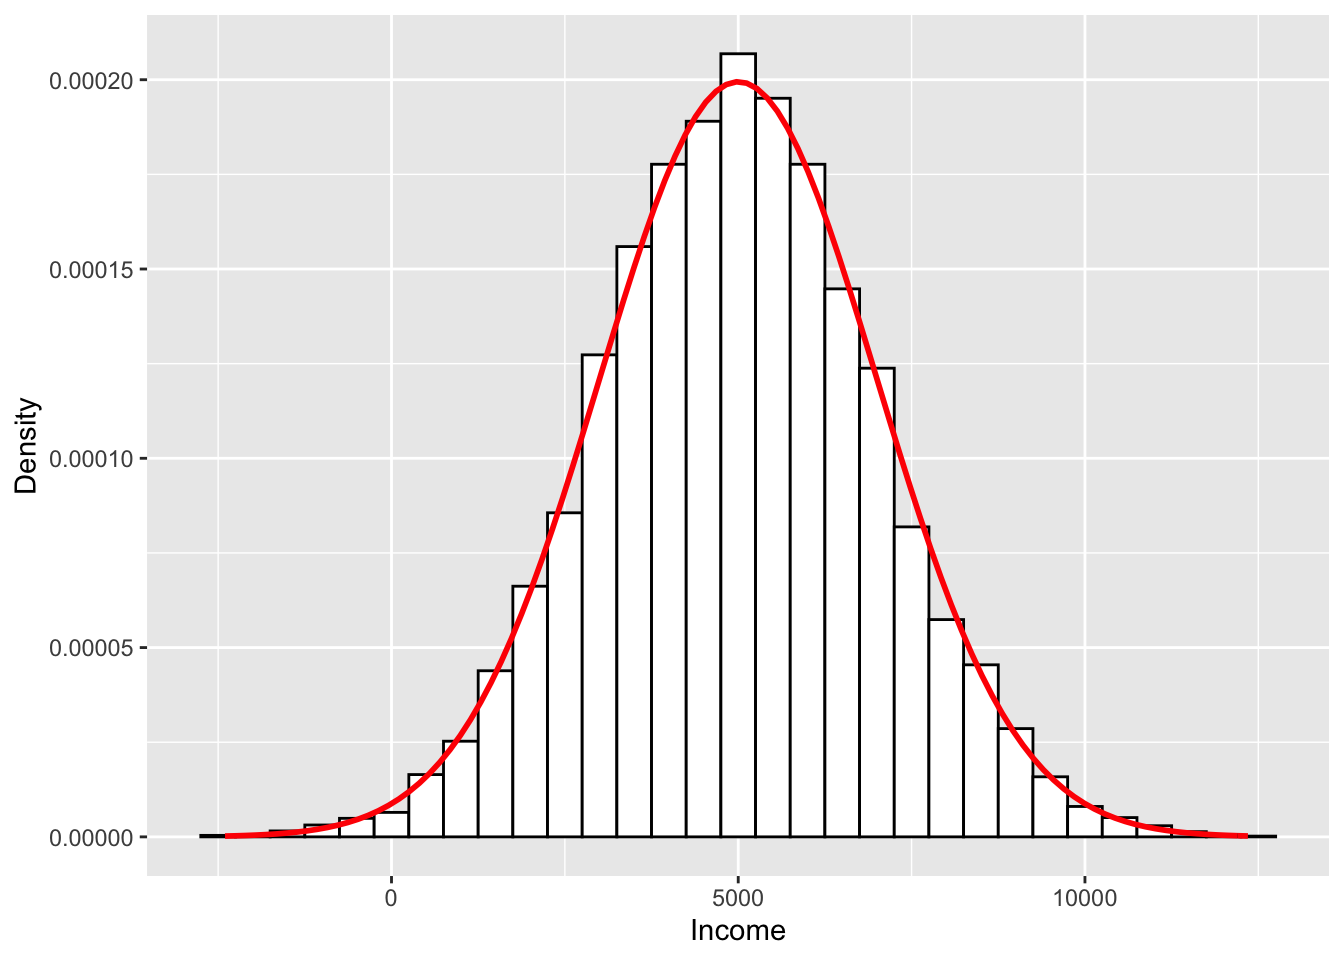
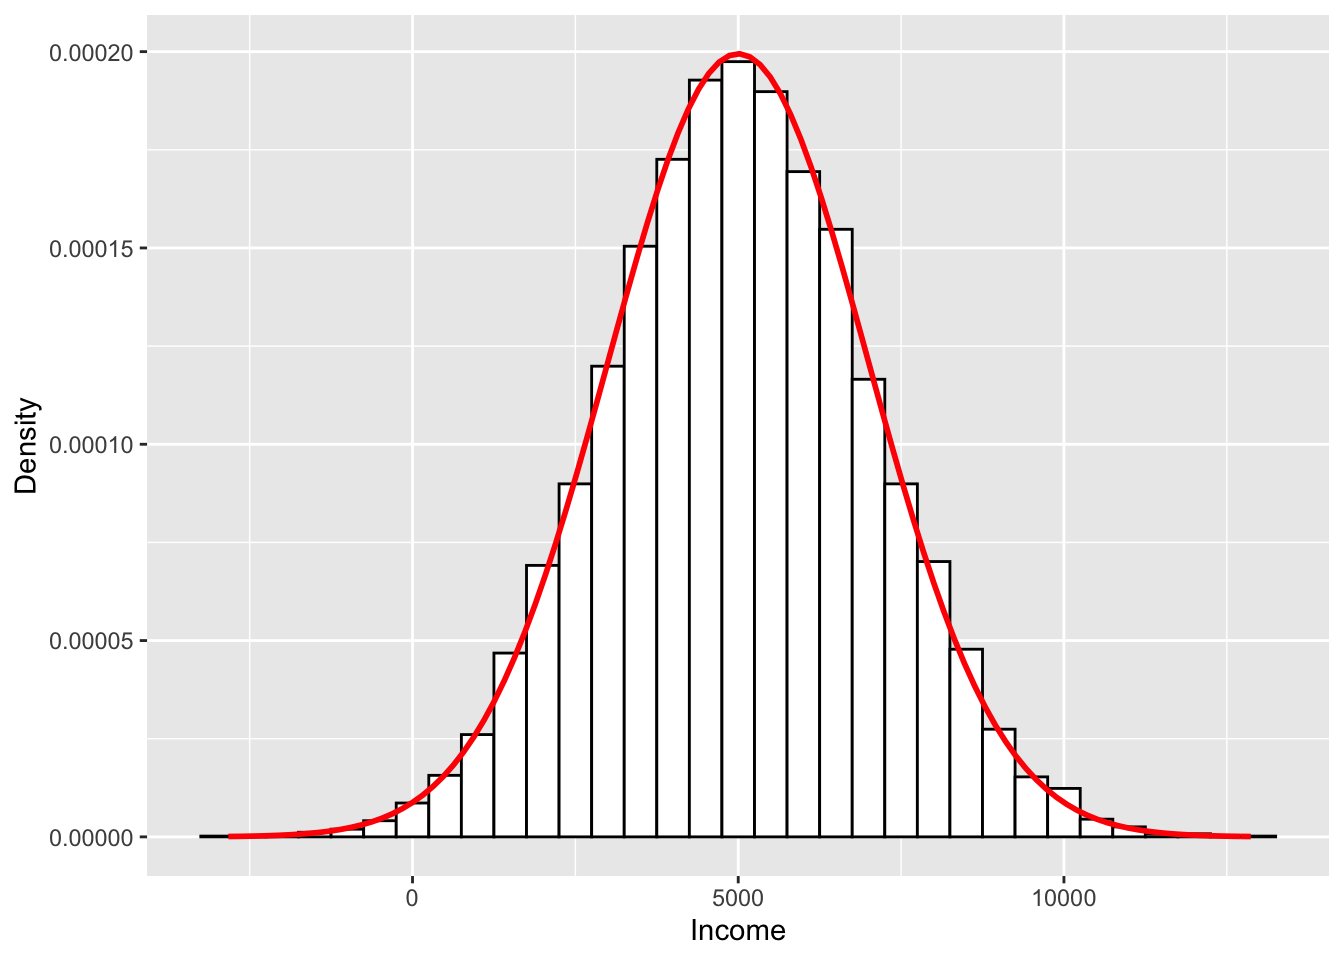
no message

diff --git a/rprogramming/index.html b/rprogramming/index.html
@@ -247,7 +247,7 @@
 <p>また、Rで既に提供している関数やオブジェクト名は避けるべきです。例えば、Rには円周率 (<span class="math inline">\(\pi\)</span>)の数値が<code>pi</code>という名前で含まれています。</p>
 <pre class="r"><code>pi</code></pre>
 <pre><code>## [1] 3.141593</code></pre>
-<p><code>pi</code>という新しい変数を作るのは可能ですが、既存の<code>pi</code>が上書きされるため避けましょう。このようにプロブラミング言語が最初から提供しているオブジェクトの名前を「予約語」といいます。多くのプロブラミング言語は予約語を変数名として使うことを禁じており、Rも一部は近似されています。たとえば、<code>pi</code>は上書き可能ですが、<code>if</code>や<code>for</code>というオブジェクト名は禁止されています。</p>
+<p><code>pi</code>という新しい変数を作るのは可能ですが、既存の<code>pi</code>が上書きされるため避けましょう。このようにプロブラミング言語が最初から提供しているオブジェクトの名前を「予約語」といいます。多くのプロブラミング言語は予約語を変数名として使うことを禁じており、Rも一部は禁止されています。たとえば、<code>pi</code>は上書き可能ですが、<code>if</code>や<code>for</code>というオブジェクト名は禁止されています。</p>
 <pre class="r"><code>pi  &lt;- 3</code></pre>
 <pre class="r"><code>if  &lt;- &quot;Yanai&quot;</code></pre>
 <pre><code>## Error: &lt;text&gt;:1:5:  想定外の付値です 
@@ -257,7 +257,7 @@
 <pre><code>## Error: &lt;text&gt;:1:5:  想定外の付値です 
 ## 1: for &lt;-
 ##         ^</code></pre>
-<p><strong>短さと分かりやすさ</strong></p>
+<p><strong>短さと分かりやすさを求める</strong></p>
 <p>できれば、オブジェクト名を見るだけで、中身がどのようなものかが分かればベストでしょう。たとえば、学生5人の数学成績が格納されたベクトルを作るとします。</p>
 <pre class="r"><code>Variable1 &lt;- c(30, 91, 43, 77, 100)</code></pre>
 <p>これでも問題ありませんが、プロブラミングの世界において変数は<code>Variable1</code>と全て書くよりも<code>Var1</code>や<code>V1</code>のように略す場合が多いです。データ分析の世界だと、変数名を<code>X1</code>や<code>X2</code>にする場合も多いです。しかし、これだけだと中身の内容が想像できません。したがって、変数名は可能な限り中身の内容をよく表現した名前が望ましいです。</p>
@@ -849,13 +849,13 @@ while (Total &lt; 30) {
   
   Trial &lt;- Trial + 1
 }</code></pre>
-<pre><code>## [1] &quot;1回目のサイコロ投げの結果: 4(これまでの総和: 4)&quot;
-## [1] &quot;2回目のサイコロ投げの結果: 5(これまでの総和: 9)&quot;
-## [1] &quot;3回目のサイコロ投げの結果: 6(これまでの総和: 15)&quot;
-## [1] &quot;4回目のサイコロ投げの結果: 2(これまでの総和: 17)&quot;
-## [1] &quot;5回目のサイコロ投げの結果: 6(これまでの総和: 23)&quot;
-## [1] &quot;6回目のサイコロ投げの結果: 6(これまでの総和: 29)&quot;
-## [1] &quot;7回目のサイコロ投げの結果: 4(これまでの総和: 33)&quot;</code></pre>
+<pre><code>## [1] &quot;1回目のサイコロ投げの結果: 5(これまでの総和: 5)&quot;
+## [1] &quot;2回目のサイコロ投げの結果: 4(これまでの総和: 9)&quot;
+## [1] &quot;3回目のサイコロ投げの結果: 3(これまでの総和: 12)&quot;
+## [1] &quot;4回目のサイコロ投げの結果: 5(これまでの総和: 17)&quot;
+## [1] &quot;5回目のサイコロ投げの結果: 4(これまでの総和: 21)&quot;
+## [1] &quot;6回目のサイコロ投げの結果: 5(これまでの総和: 26)&quot;
+## [1] &quot;7回目のサイコロ投げの結果: 6(これまでの総和: 32)&quot;</code></pre>
 <p>それでは、コードの説明をします。まず、これまで出た目の和を記録する変数<code>Total</code>を用意し、初期値として0を格納します。また、何回目の投げかを記録するための<code>Trial</code>変数を記録し、初期値として1を格納しておきます (コードの1、2行目)。</p>
 <p>続いて<code>while()</code>文を入れます。反復する条件は<code>Total</code>が30より小さい場合と設定します。つまり、<code>Total</code>が30以上になったら反復を終了することを意味します (コードの4行目)。</p>
 <p>つづいて、サイコロ投げをし、出た目を<code>Dice</code>という変数に格納します。サイコロ投げは1から6の間の整数から無作為に一つを値を抽出することでできます。そこで使われるのが<code>sample()</code>関数です (コードの5行目)。<code>sample()</code>関数は与えられたベクトル内の要素を無作為に抽出する関数です。<code>sample(c(1, 2, 3, 4, 5, 6), 1)</code>は「<code>c(1, 2, 3, 4, 5, 6)</code>から1つの要素を無作為に抽出せよ」という意味です。むろん、複数の要素を抽出することも可能ですし、数値型ベクトルでなく、文字型ベクトルから抽出することも可能です。サイコロ投げをしたら、その目を<code>Total</code>の値に足します (コードの6行目)。</p>
@@ -876,15 +876,13 @@ for (Trial in 1:30) {
     break() # ()は省略可能
   }
 }</code></pre>
-<pre><code>## [1] &quot;1回目のサイコロ投げの結果: 1 (これまでの総和: 1)&quot;
-## [1] &quot;2回目のサイコロ投げの結果: 2 (これまでの総和: 3)&quot;
-## [1] &quot;3回目のサイコロ投げの結果: 5 (これまでの総和: 8)&quot;
-## [1] &quot;4回目のサイコロ投げの結果: 5 (これまでの総和: 13)&quot;
-## [1] &quot;5回目のサイコロ投げの結果: 6 (これまでの総和: 19)&quot;
-## [1] &quot;6回目のサイコロ投げの結果: 1 (これまでの総和: 20)&quot;
-## [1] &quot;7回目のサイコロ投げの結果: 5 (これまでの総和: 25)&quot;
-## [1] &quot;8回目のサイコロ投げの結果: 1 (これまでの総和: 26)&quot;
-## [1] &quot;9回目のサイコロ投げの結果: 4 (これまでの総和: 30)&quot;</code></pre>
+<pre><code>## [1] &quot;1回目のサイコロ投げの結果: 6 (これまでの総和: 6)&quot;
+## [1] &quot;2回目のサイコロ投げの結果: 6 (これまでの総和: 12)&quot;
+## [1] &quot;3回目のサイコロ投げの結果: 6 (これまでの総和: 18)&quot;
+## [1] &quot;4回目のサイコロ投げの結果: 6 (これまでの総和: 24)&quot;
+## [1] &quot;5回目のサイコロ投げの結果: 1 (これまでの総和: 25)&quot;
+## [1] &quot;6回目のサイコロ投げの結果: 4 (これまでの総和: 29)&quot;
+## [1] &quot;7回目のサイコロ投げの結果: 3 (これまでの総和: 32)&quot;</code></pre>
 <p>まず、サイコロを何回投げれば良いかは分かりませんが6面サイコロの場合、30回以内には必ず合計30になるので、まず<code>Trial in 1:30</code>とします。あとは<code>while()</code>文の書き方とほぼ同じですが、今回は<code>i</code>が自動的に更新されるので<code>i &lt;- i + 1</code>は不要です。ただし、一定の条件が満たされる場合、<code>for()</code>文を停止する必要があります。そこで登場するのが条件分岐と<code>break()</code>です。条件分岐は次節で説明しますが、これは「<code>Total</code>が30以上になった場合、ループから脱出せよ」を意味します。このループからの脱出を指示する関数が<code>break()</code>です。ちなみに、<code>break()</code>関数は<code>()</code>を抜いて<code>break</code>と書いても問題ありません。また、<code>if(){}</code>内の処理内容は一行ですので、<code>if (Total &gt;= 30) break</code>のような書き方でも問題ありません。</p>
 <p>これは余談ですが、結果の表示に今回はこれまで使ってきた<code>print()</code>と<code>paste0()</code> (または<code>paste()</code>)を使わず、<code>sprintf()</code>を使いました。人によってはこっちの書き方を好む場合もあります。<code>sprintf()</code>内の<code>%d</code>はその位置に指定された変数の値を整数として代入することを意味します。<code>sprintf()</code>はまず、出力する文字列を指定し、続いて代入する変数を順番に引数として入れます。<code>%s</code>は文字型、<code>%f</code>は実数を意味します。<code>%f</code>の場合、少数点の桁数も指定可能であり、小数点2桁まで表示させる場合は<code>%.2f</code>のように表記します。以下のコードは3つの変数の値と文字列を結合する処理を<code>print(paste0())</code>と<code>sprintf()</code>を用いて書いたものであり、同じ動きをします。</p>
 <pre class="r"><code>Name   &lt;- &quot;Song&quot;
@@ -1354,37 +1352,12 @@ DQ_Attack &lt;- function(attack, defence, hp, enemy) {
 <p>初めて見る関数が3つありますね。まず、<code>floor()</code>関数は引数の端数は切り捨てる関数です。たとえば、<code>floor(2.1)</code>も<code>floor(2.6)</code>も結果は2です。続いて、<code>runif()</code>関数は指定された範囲の一様分布から乱数を生成する関数です。引数は生成する乱数の個数 (<code>n</code>)、最小値 (<code>min</code>)、最大値 (<code>max</code>)の3つです。<code>runif(5, 3, 10)</code>なら最小値3、最大値10の乱数を5個生成するという意味です。正規分布は平均値周辺の値が生成されやすい一方、一様分布の場合、ある値が抽出される確率は同じです。最後に<code>round()</code>関数は四捨五入の関数です。引数は2つあり、1つ目の引数は数値型のベクトルです。2つ目は丸める小数点です。たとえば、<code>round(3.127, 1)</code>の結果は<code>3.1</code>であり、<code>round(3.127, 2)</code>の結果は<code>3.13</code>となります。</p>
 <p>それでは「ひのきのぼう」を装備したレベル1の勇者を考えてみましょう。ドラクエ5の場合、Lv1勇者の力は11、「ひのきのぼう」の攻撃力は2ですので、攻撃力は13です。まずは定番のスライムから狩ってみましょう。スライムのHPと守備力は両方7です。</p>
 <pre class="r"><code>DQ_Attack(13, defence = 7, hp = 7, &quot;スライム&quot;)</code></pre>
-<pre><code>## [1] &quot;スライムに4のダメージ!!&quot;
+<pre><code>## [1] &quot;スライムに5のダメージ!!&quot;
 ## [1] &quot;スライムに4のダメージ!!&quot;</code></pre>
 <pre><code>## [1] &quot;スライムをやっつけた！&quot;</code></pre>
 <p>まぁ、こんなもんでしょう。それではスライムナイト (=ピエール)はどうでしょう。スライムナイトのHPのは40、守備力は44です。</p>
 <pre class="r"><code>DQ_Attack(13, defence = 44, hp = 40, &quot;スライムナイト&quot;)</code></pre>
-<pre><code>## [1] &quot;スライムナイトに0のダメージ!!&quot;
-## [1] &quot;スライムナイトに1のダメージ!!&quot;
-## [1] &quot;スライムナイトに0のダメージ!!&quot;
-## [1] &quot;スライムナイトに0のダメージ!!&quot;
-## [1] &quot;スライムナイトに0のダメージ!!&quot;
-## [1] &quot;スライムナイトに1のダメージ!!&quot;
-## [1] &quot;スライムナイトに0のダメージ!!&quot;
-## [1] &quot;スライムナイトに0のダメージ!!&quot;
-## [1] &quot;スライムナイトに1のダメージ!!&quot;
-## [1] &quot;スライムナイトに0のダメージ!!&quot;
-## [1] &quot;スライムナイトに1のダメージ!!&quot;
-## [1] &quot;スライムナイトに0のダメージ!!&quot;
-## [1] &quot;スライムナイトに0のダメージ!!&quot;
-## [1] &quot;スライムナイトに1のダメージ!!&quot;
-## [1] &quot;スライムナイトに1のダメージ!!&quot;
-## [1] &quot;スライムナイトに1のダメージ!!&quot;
-## [1] &quot;スライムナイトに1のダメージ!!&quot;
-## [1] &quot;スライムナイトに1のダメージ!!&quot;
-## [1] &quot;スライムナイトに1のダメージ!!&quot;
-## [1] &quot;スライムナイトに0のダメージ!!&quot;
-## [1] &quot;スライムナイトに0のダメージ!!&quot;
-## [1] &quot;スライムナイトに1のダメージ!!&quot;
-## [1] &quot;スライムナイトに0のダメージ!!&quot;
-## [1] &quot;スライムナイトに0のダメージ!!&quot;
-## [1] &quot;スライムナイトに0のダメージ!!&quot;
-## [1] &quot;スライムナイトに1のダメージ!!&quot;
+<pre><code>## [1] &quot;スライムナイトに1のダメージ!!&quot;
 ## [1] &quot;スライムナイトに1のダメージ!!&quot;
 ## [1] &quot;スライムナイトに0のダメージ!!&quot;
 ## [1] &quot;スライムナイトに0のダメージ!!&quot;
@@ -1393,14 +1366,10 @@ DQ_Attack &lt;- function(attack, defence, hp, enemy) {
 ## [1] &quot;スライムナイトに0のダメージ!!&quot;
 ## [1] &quot;スライムナイトに1のダメージ!!&quot;
 ## [1] &quot;スライムナイトに1のダメージ!!&quot;
-## [1] &quot;スライムナイトに0のダメージ!!&quot;
-## [1] &quot;スライムナイトに0のダメージ!!&quot;
-## [1] &quot;スライムナイトに1のダメージ!!&quot;
-## [1] &quot;スライムナイトに0のダメージ!!&quot;
-## [1] &quot;スライムナイトに1のダメージ!!&quot;
 ## [1] &quot;スライムナイトに1のダメージ!!&quot;
 ## [1] &quot;スライムナイトに1のダメージ!!&quot;
 ## [1] &quot;スライムナイトに0のダメージ!!&quot;
+## [1] &quot;スライムナイトに1のダメージ!!&quot;
 ## [1] &quot;スライムナイトに0のダメージ!!&quot;
 ## [1] &quot;スライムナイトに1のダメージ!!&quot;
 ## [1] &quot;スライムナイトに0のダメージ!!&quot;
@@ -1409,11 +1378,8 @@ DQ_Attack &lt;- function(attack, defence, hp, enemy) {
 ## [1] &quot;スライムナイトに0のダメージ!!&quot;
 ## [1] &quot;スライムナイトに1のダメージ!!&quot;
 ## [1] &quot;スライムナイトに0のダメージ!!&quot;
-## [1] &quot;スライムナイトに0のダメージ!!&quot;
-## [1] &quot;スライムナイトに0のダメージ!!&quot;
 ## [1] &quot;スライムナイトに1のダメージ!!&quot;
 ## [1] &quot;スライムナイトに0のダメージ!!&quot;
-## [1] &quot;スライムナイトに1のダメージ!!&quot;
 ## [1] &quot;スライムナイトに0のダメージ!!&quot;
 ## [1] &quot;スライムナイトに1のダメージ!!&quot;
 ## [1] &quot;スライムナイトに1のダメージ!!&quot;
@@ -1425,7 +1391,41 @@ DQ_Attack &lt;- function(attack, defence, hp, enemy) {
 ## [1] &quot;スライムナイトに1のダメージ!!&quot;
 ## [1] &quot;スライムナイトに1のダメージ!!&quot;
 ## [1] &quot;スライムナイトに1のダメージ!!&quot;
+## [1] &quot;スライムナイトに0のダメージ!!&quot;
 ## [1] &quot;スライムナイトに1のダメージ!!&quot;
+## [1] &quot;スライムナイトに0のダメージ!!&quot;
+## [1] &quot;スライムナイトに0のダメージ!!&quot;
+## [1] &quot;スライムナイトに0のダメージ!!&quot;
+## [1] &quot;スライムナイトに1のダメージ!!&quot;
+## [1] &quot;スライムナイトに0のダメージ!!&quot;
+## [1] &quot;スライムナイトに0のダメージ!!&quot;
+## [1] &quot;スライムナイトに1のダメージ!!&quot;
+## [1] &quot;スライムナイトに0のダメージ!!&quot;
+## [1] &quot;スライムナイトに1のダメージ!!&quot;
+## [1] &quot;スライムナイトに1のダメージ!!&quot;
+## [1] &quot;スライムナイトに0のダメージ!!&quot;
+## [1] &quot;スライムナイトに1のダメージ!!&quot;
+## [1] &quot;スライムナイトに0のダメージ!!&quot;
+## [1] &quot;スライムナイトに0のダメージ!!&quot;
+## [1] &quot;スライムナイトに1のダメージ!!&quot;
+## [1] &quot;スライムナイトに0のダメージ!!&quot;
+## [1] &quot;スライムナイトに0のダメージ!!&quot;
+## [1] &quot;スライムナイトに1のダメージ!!&quot;
+## [1] &quot;スライムナイトに0のダメージ!!&quot;
+## [1] &quot;スライムナイトに0のダメージ!!&quot;
+## [1] &quot;スライムナイトに1のダメージ!!&quot;
+## [1] &quot;スライムナイトに1のダメージ!!&quot;
+## [1] &quot;スライムナイトに1のダメージ!!&quot;
+## [1] &quot;スライムナイトに0のダメージ!!&quot;
+## [1] &quot;スライムナイトに0のダメージ!!&quot;
+## [1] &quot;スライムナイトに0のダメージ!!&quot;
+## [1] &quot;スライムナイトに1のダメージ!!&quot;
+## [1] &quot;スライムナイトに0のダメージ!!&quot;
+## [1] &quot;スライムナイトに1のダメージ!!&quot;
+## [1] &quot;スライムナイトに0のダメージ!!&quot;
+## [1] &quot;スライムナイトに0のダメージ!!&quot;
+## [1] &quot;スライムナイトに1のダメージ!!&quot;
+## [1] &quot;スライムナイトに0のダメージ!!&quot;
 ## [1] &quot;スライムナイトに0のダメージ!!&quot;
 ## [1] &quot;スライムナイトに1のダメージ!!&quot;
 ## [1] &quot;スライムナイトに1のダメージ!!&quot;

diff --git a/simulation/llm/index.html b/simulation/llm/index.html
@@ -210,7 +210,7 @@ library(tidyverse)</code></pre>
 <p>これで10210人のナウル国民の所得を設定した。ならば生成されたデータを見てみる。</p>
 <pre class="r"><code>summary(nauru.income)</code></pre>
 <pre><code>##    Min. 1st Qu.  Median    Mean 3rd Qu.    Max. 
-##   -2401    3640    4988    4983    6296   12350</code></pre>
+##   -2827    3637    5013    5016    6389   12868</code></pre>
 <p>ナウル国民の所得の平均は5017ドル、最小値は-1761だそうだ。「所得にマイナスなんてあり得るか！」と思うかも知れないが、細かいことは無視しよう。知りたいのは大数の法則を経験的に確認することであって、ナウル国民の所得ではない。</p>
 <p>次はヒストグラムで見てみよう。</p>
 <pre class="r"><code>plot1 &lt;- ggplot(data = data.frame(nauru.income)) + 

diff --git a/simulation/mhp/index.html b/simulation/mhp/index.html
@@ -247,8 +247,8 @@ MH.sim &lt;- function(trials = 1000){
 table(MH.Result$if.switch)</code></pre>
 <pre><code>## 
 ##    0    1 
-## 3387 6613</code></pre>
-<p>1万回のシミュレーションの結果、選択肢を変えた場合の当たり率は66.13%、変えなかった場合は33.87%であり、ほぼ2倍になることが分かる。</p>
+## 3299 6701</code></pre>
+<p>1万回のシミュレーションの結果、選択肢を変えた場合の当たり率は67.01%、変えなかった場合は32.99%であり、ほぼ2倍になることが分かる。</p>
 </div>
 </div>
 

diff --git a/tags/page/4/index.html b/tags/page/4/index.html
@@ -205,36 +205,6 @@
 
 
 </div>
-  <div class="item">
-
-    
-    
-    
-
-    
-    
-
-    <h4><a href="../../../tags/plot/">plot</a></h4>
-    <h5>July 23, 2015</h5>
-    
-
-
-</div>
-  <div class="item">
-
-    
-    
-    
-
-    
-    
-
-    <h4><a href="../../../tags/r-markdown/">R Markdown</a></h4>
-    <h5>July 23, 2015</h5>
-    
-
-
-</div>
  
 
 </main>
@@ -249,10 +219,6 @@
         </a>
     
 
-    
-        <a class="icon pages-icon" href="../../../tags/page/5/" rel="next">
-            <i class="fa fa-arrow-right"></i>
-        </a>
     
 
 </div>

diff --git a/categories/index.html b/categories/index.html
@@ -175,21 +175,6 @@
 
 
 </div>
-  <div class="item">
-
-    
-    
-    
-
-    
-    
-
-    <h4><a href="../categories/r/">R</a></h4>
-    <h5>July 23, 2015</h5>
-    
-
-
-</div>
  
 
 </main>

diff --git a/post/page/2/index.html b/post/page/2/index.html
@@ -262,10 +262,6 @@
     
 
     
-        <a class="icon pages-icon" href="../../../post/page/3/" rel="next">
-            <i class="fa fa-arrow-right"></i>
-        </a>
-    
 
 </div>
 
